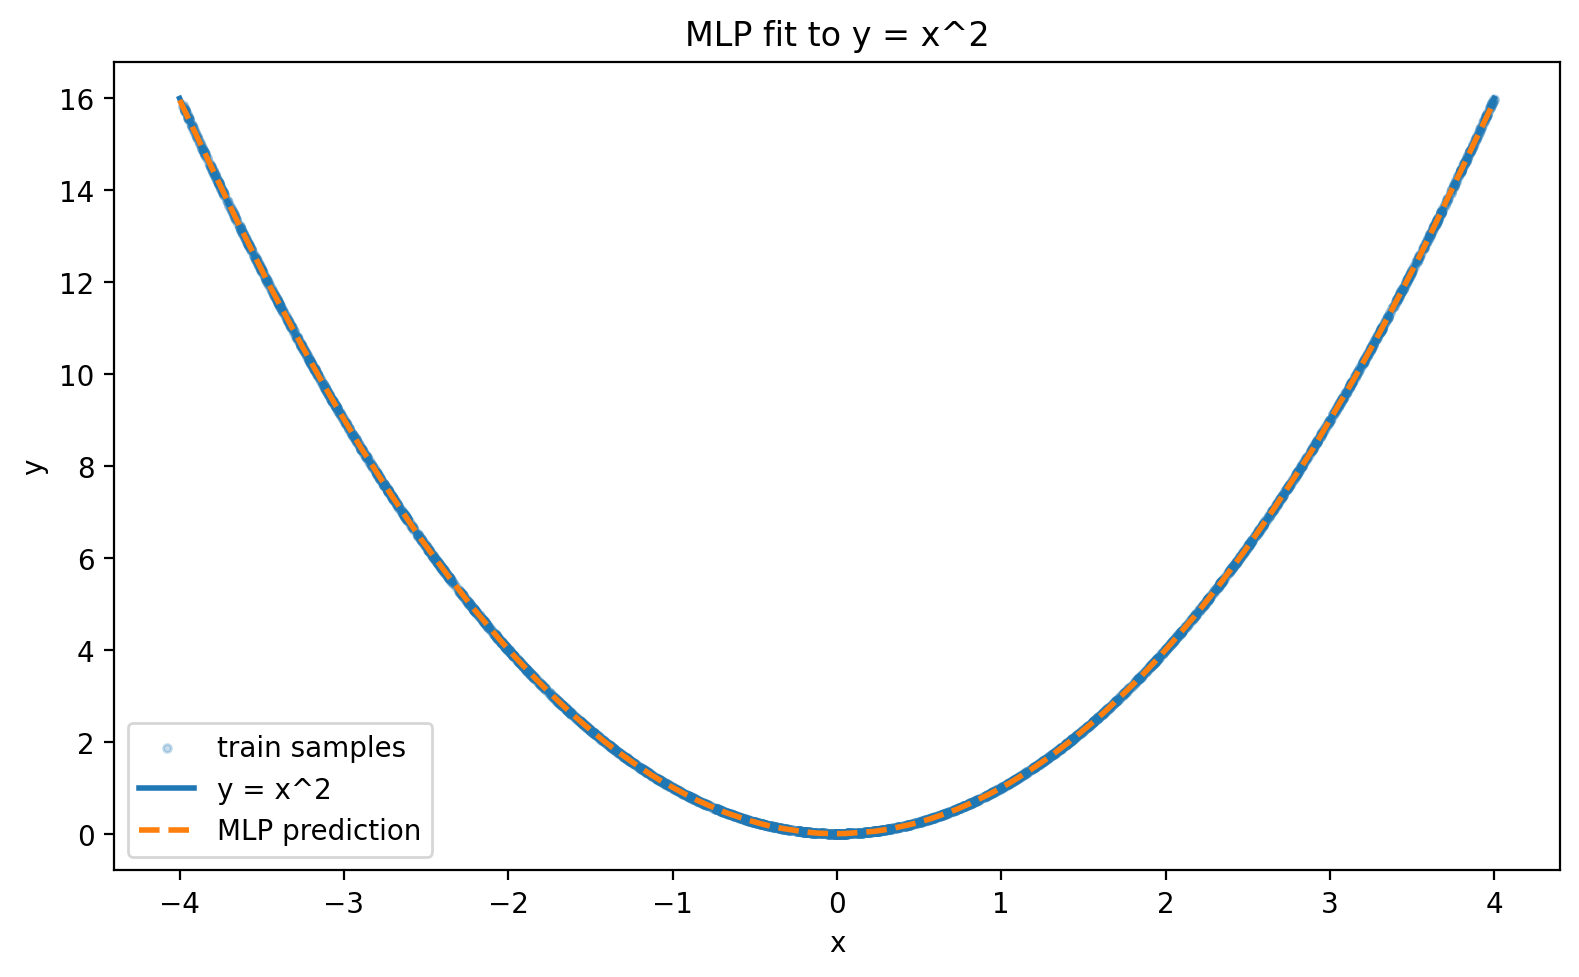
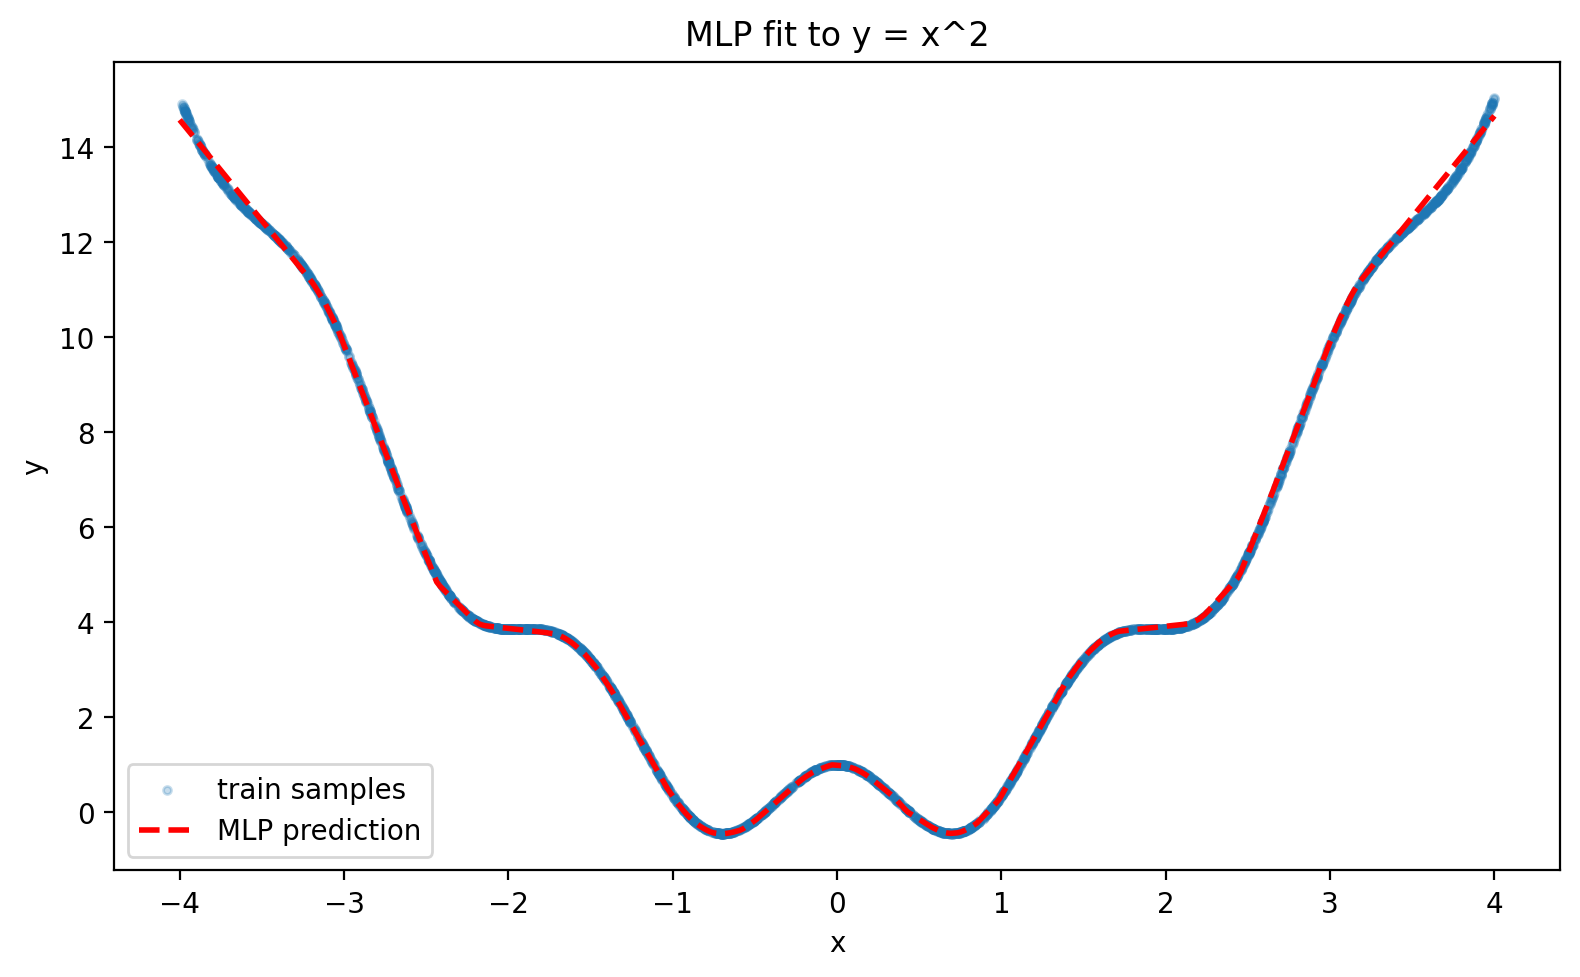
nothing much, just played around with more hidden layers and more complex function

diff --git a/template_model.py b/template_model.py
@@ -22,18 +22,36 @@ model_urls = {
 #         super(MLP, self).__init__()
 #         self.expand_dim = expand_dim
 #         if self.expand_dim:
-#             self.linear = nn.Linear(input_dim, expand_dim)
+#             self.linear1 = nn.Linear(input_dim, expand_dim)
 #             self.activation = torch.nn.ReLU()
 #             self.linear2 = nn.Linear(expand_dim, num_classes) #softmax is automatically handled by loss function
-#         self.linear = nn.Linear(input_dim, num_classes)
+#         else:
+#             self.linear = nn.Linear(input_dim, num_classes)
 
 #     def forward(self, x):
-#         x = self.linear(x)
-#         if hasattr(self, 'expand_dim') and self.expand_dim:
-#             x = self.activation(x)
+#         if self.expand_dim:
+#             x = self.activation(self.linear1(x))
 #             x = self.linear2(x)
+#         else:
+#             x = self.linear(x)
 #         return x
     
+
+# class MLP(nn.Module):
+#     def __init__(self, input_dim, num_classes, expand_dim=None):
+#         super().__init__()
+#         if expand_dim:  # use a hidden layer
+#             self.net = nn.Sequential(
+#                 nn.Linear(input_dim, expand_dim),
+#                 nn.ReLU(),
+#                 nn.Linear(expand_dim, num_classes)
+#             )
+#         else:  # just a single linear classifier
+#             self.net = nn.Linear(input_dim, num_classes)
+
+#     def forward(self, x):
+#         return self.net(x)
+
 
 class MLP(nn.Module):
     def __init__(self, input_dim, num_classes, expand_dim=None):
@@ -42,6 +60,10 @@ class MLP(nn.Module):
             self.net = nn.Sequential(
                 nn.Linear(input_dim, expand_dim),
                 nn.ReLU(),
+                nn.Linear(expand_dim, expand_dim), ## added another hidden layer. 1 -> 16 -> 16 -> 1
+                nn.ReLU(),
+                # nn.Linear(expand_dim + 64, expand_dim), ## added another hidden layer. 1 -> 16 -> 16 -> 1
+                # nn.ReLU(),
                 nn.Linear(expand_dim, num_classes)
             )
         else:  # just a single linear classifier

diff --git a/main.py b/main.py
@@ -3,6 +3,7 @@ import torch.nn as nn
 from torch.utils.data import DataLoader, TensorDataset
 import matplotlib.pyplot as plt
 import matplotlib,os
+import math
 
 from template_model import MLP
 
@@ -13,12 +14,12 @@ BATCH_SIZE = 64
 EPOCHS = 200
 LR = 1e-3
 WEIGHT_DECAY = 1e-5
-EXPAND_DIM = 128 
+EXPAND_DIM = 128
 
 def make_x2_dataset(n=N_SAMPLES, x_min=X_MIN, x_max=X_MAX, seed=42):
     g = torch.Generator().manual_seed(seed)
     x = torch.empty(n, 1).uniform_(x_min, x_max, generator=g)
-    y = x**2  # target function
+    y = x**2 + torch.cos(4*x)# target function
     # optional tiny noise to help optimization:
     # y = y + 0.01 * torch.randn_like(y, generator=g)
     return x.float(), y.float()
@@ -82,8 +83,8 @@ def main():
     plt.figure(figsize=(8, 5))
     # training samples (light scatter), true curve, learned curve
     plt.scatter(Xtr.squeeze().cpu().numpy(), ytr.squeeze().cpu().numpy(), s=8, alpha=0.25, label="train samples")
-    plt.plot(xs_np, y_true_np, linewidth=2, label="y = x^2")
-    plt.plot(xs_np, y_pred_np, linewidth=2, linestyle="--", label="MLP prediction")
+    # plt.plot(xs_np, y_true_np, linewidth=2, label="y = x^2")
+    plt.plot(xs_np, y_pred_np, linewidth=2, linestyle="--", color="red", label="MLP prediction", )
     plt.xlabel("x"); plt.ylabel("y")
     plt.title("MLP fit to y = x^2")
     plt.legend()

diff --git a/test.py b/test.py
@@ -1,0 +1,10 @@
+import main
+
+
+print("hey there!")
+
+X,y = main.make_x2_dataset(200)
+
+print(X.shape, y.shape)
+print(X.type)
+
